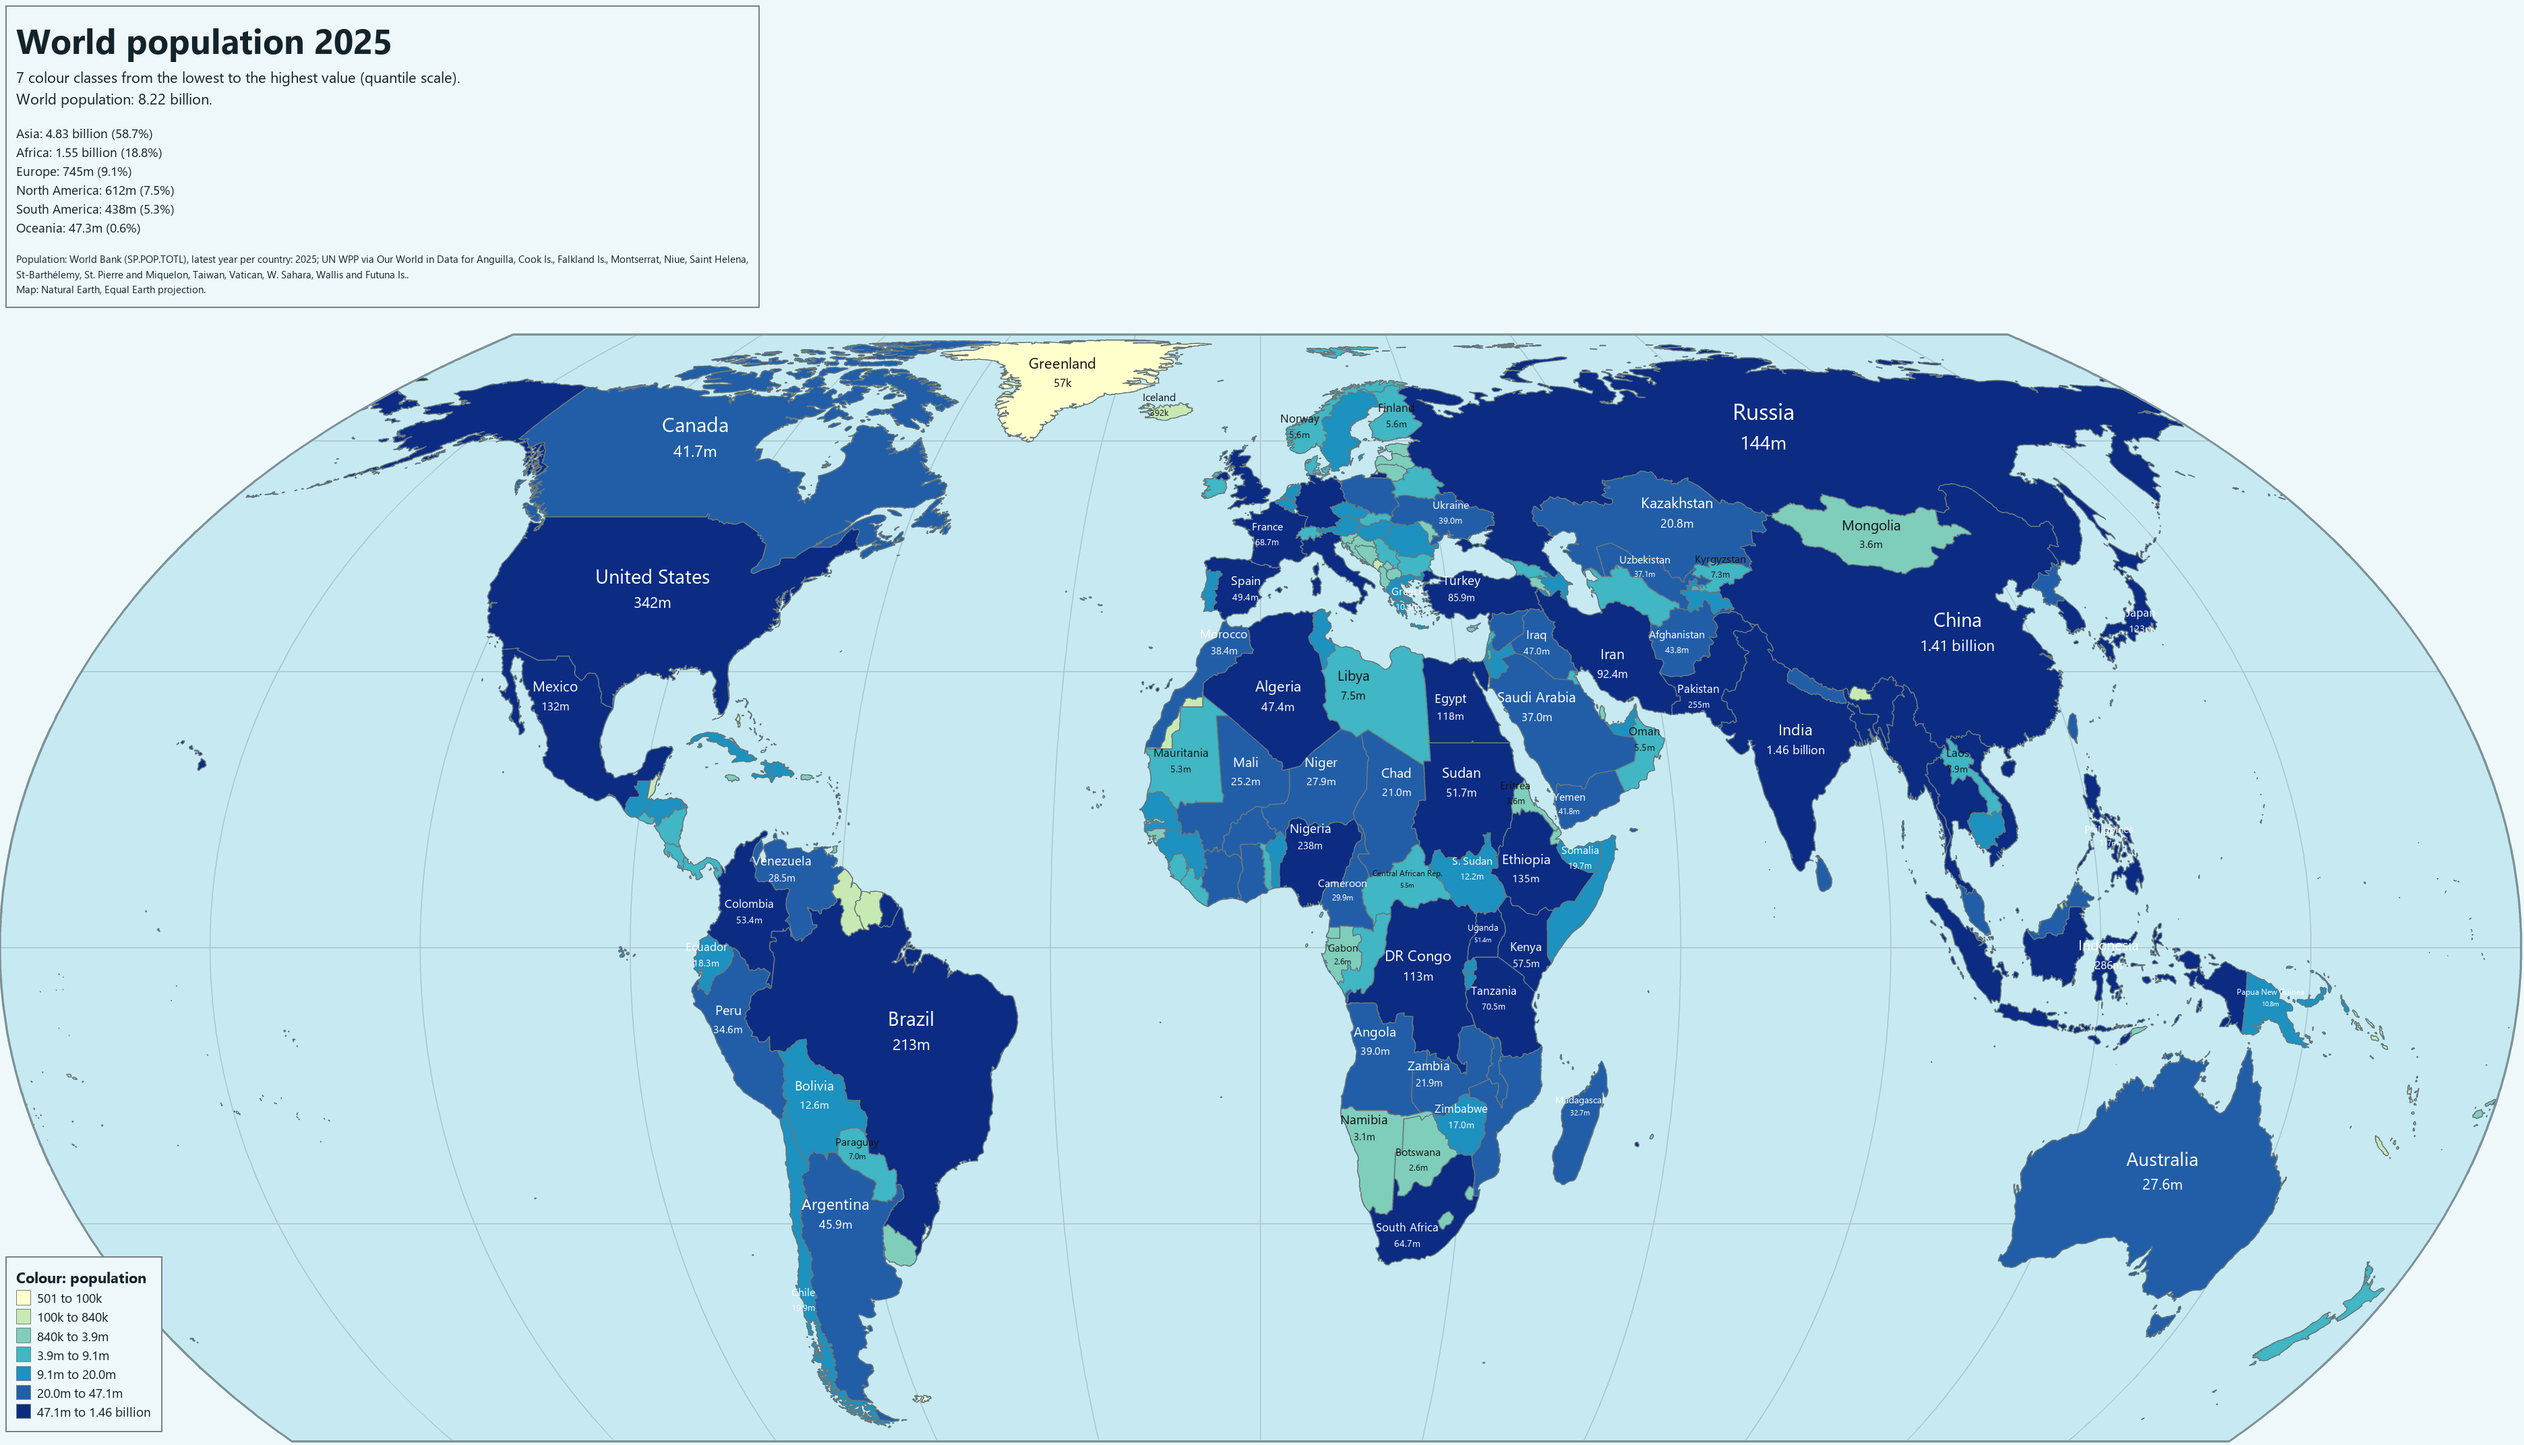
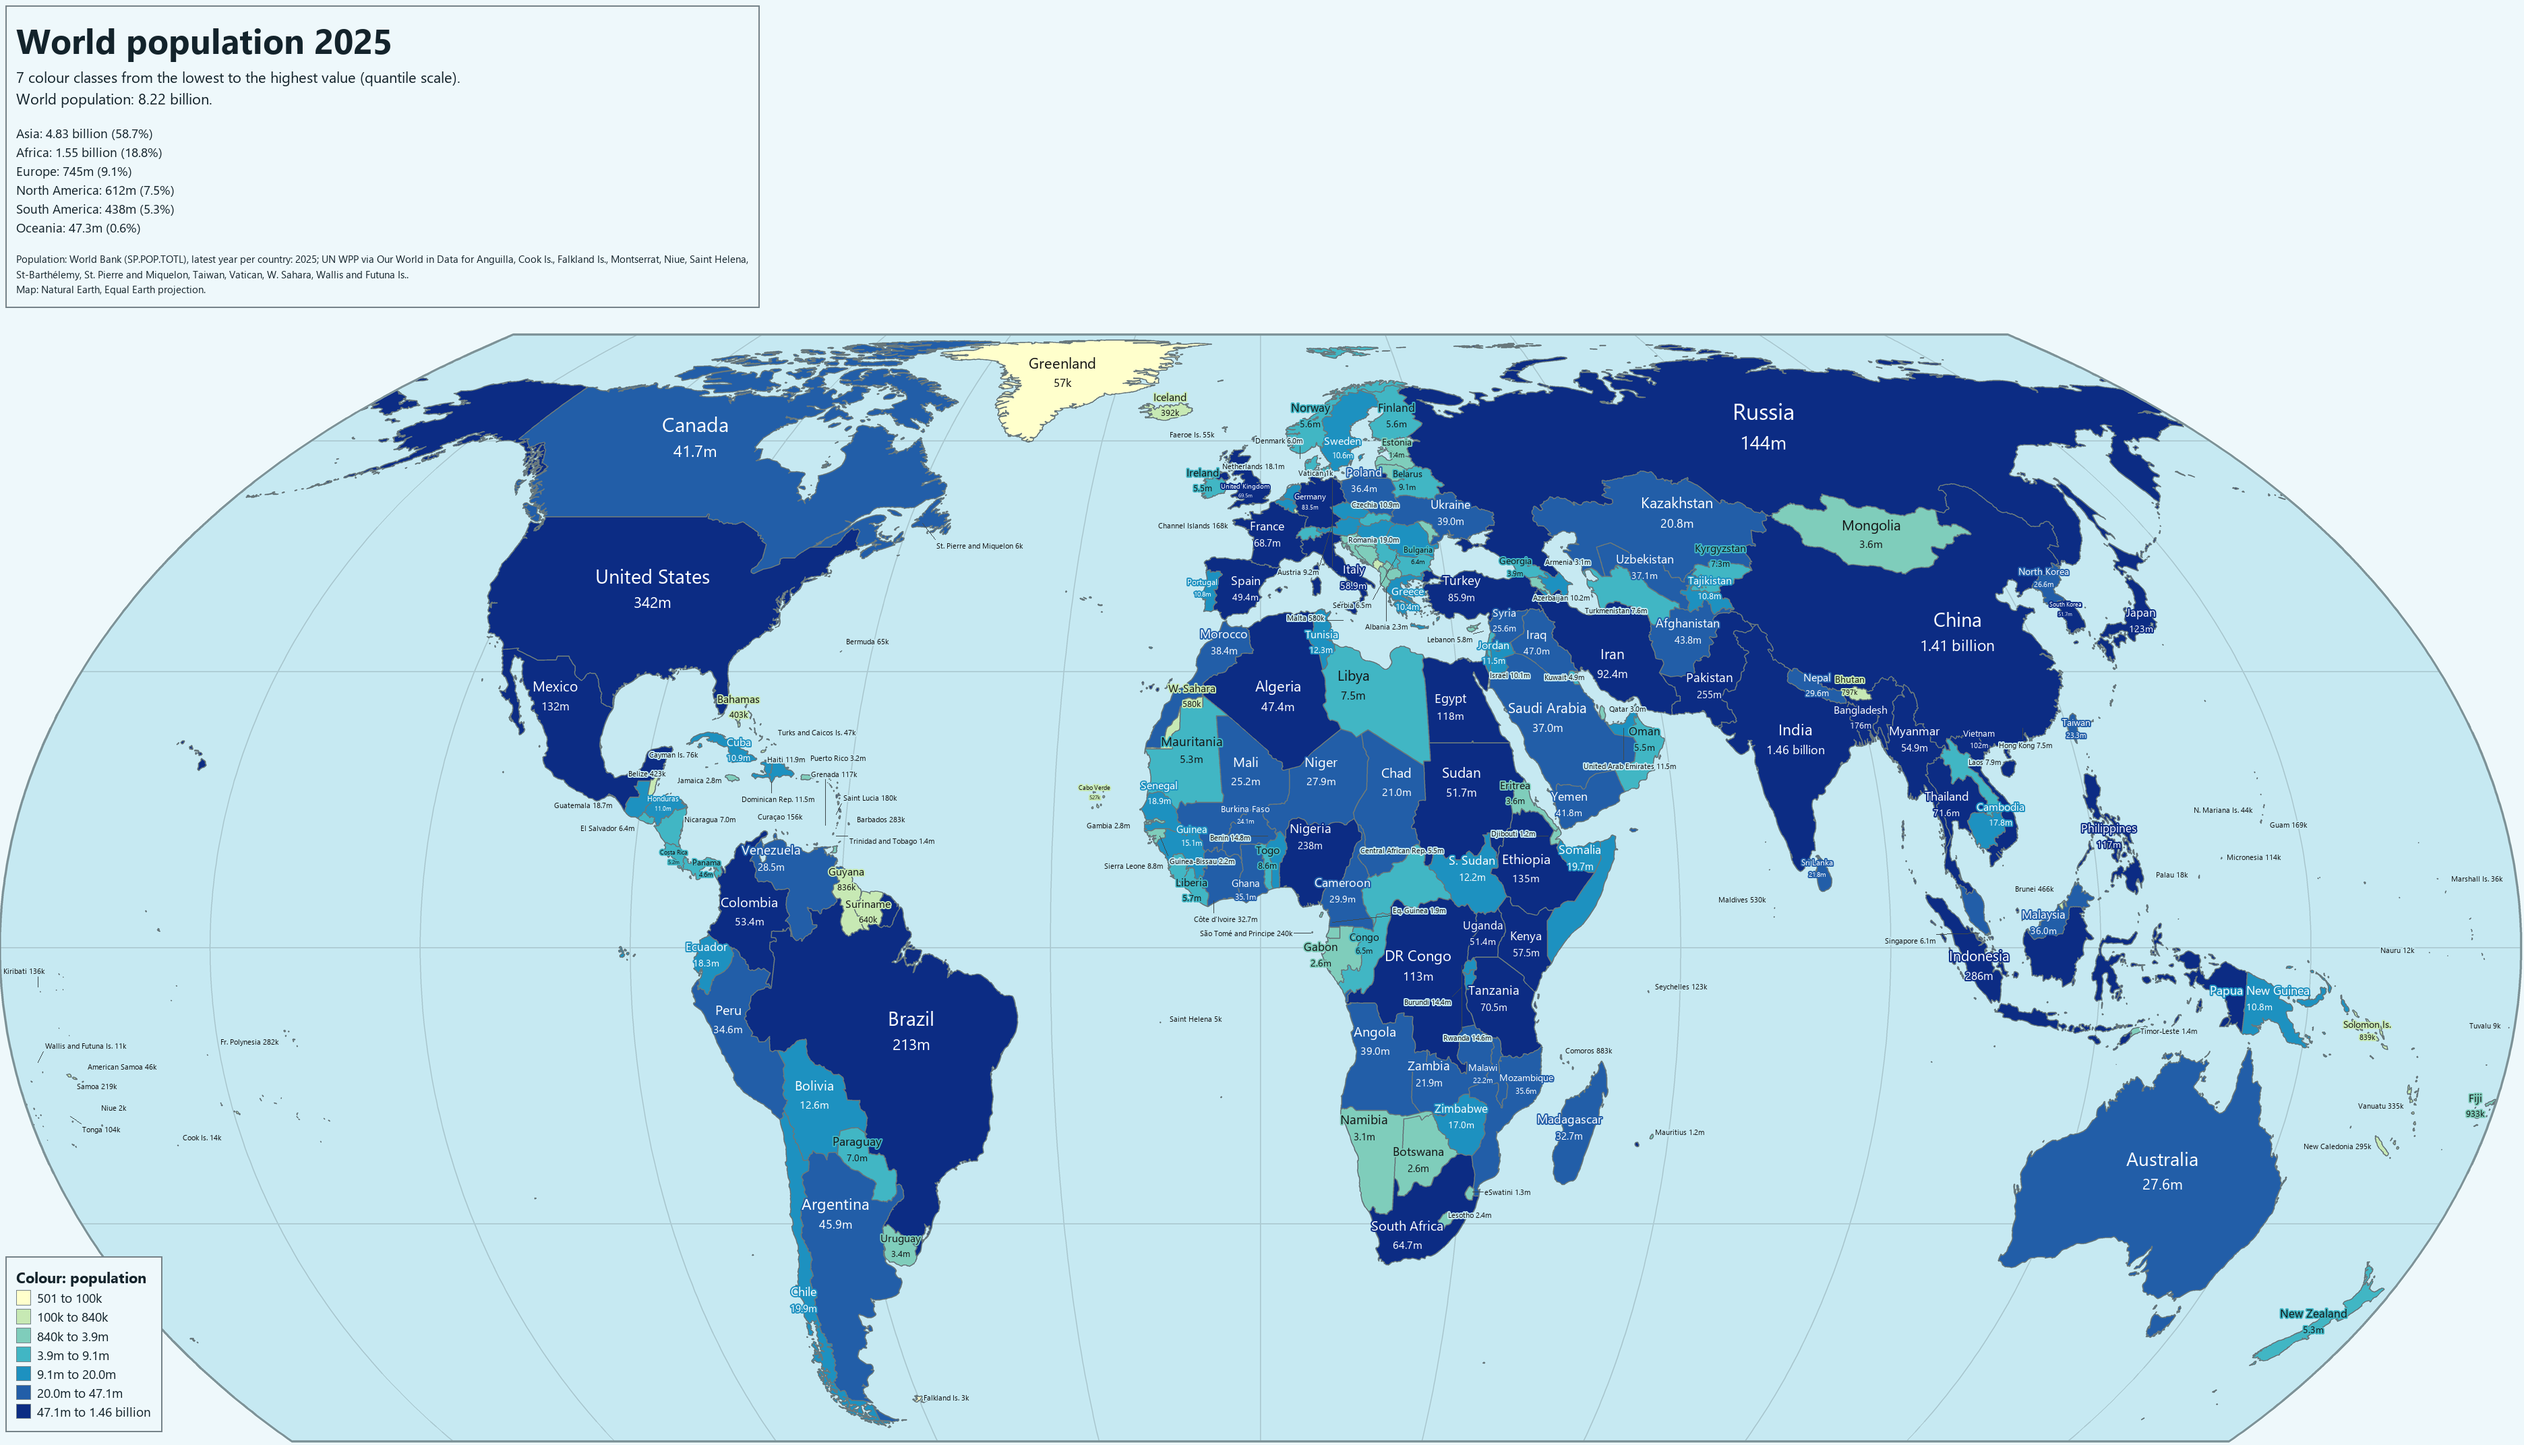
Map style: label far more countries
Labels inside a country may shrink to 8 px and cross its border with a halo of
its own colour; the rest go beside the country with a leader line, never over
another label nor with the line through one, and avoiding other leader lines.
Countries left without room are listed in the log. Other styles are unchanged.

diff --git a/population_cartogram.py b/population_cartogram.py
@@ -2422,7 +2422,7 @@ def render(layout, th, lang, cs, out_path, thematic=None, region=None):
         rank = np.lexsort(((ys - cy) ** 2 + (xs - cx) ** 2, -dv))[:80]
         fs = cs * min(0.9 + 0.09 * math.sqrt(T[i]), 6.5)
         placed = False
-        while fs >= max(cs * 0.75, 7):
+        while fs >= (max(cs * 0.55, 8) if geo else max(cs * 0.75, 7)):
             lines = [(name, fs, False), (value, fs * 0.8, False)]
             if not thematic and pops[i] / world >= 0.02 and fs >= cs * 2.2:
                 lines.append((tx["share"].format(p=fmt_num(100 * pops[i] / world, 1, tx)), fs * 0.36, False))
@@ -2434,11 +2434,12 @@ def render(layout, th, lang, cs, out_path, thematic=None, region=None):
                     continue
                 r0, r1, c0, c1 = canvas.cells(*box)
                 part = mine[r0:r1, c0:c1]
-                if part.mean() < 0.9 or canvas.occ[r0:r1, c0:c1].any():
+                if part.mean() < (0.6 if geo else 0.9) or canvas.occ[r0:r1, c0:c1].any():
                     continue
                 y = box[1]
-                for s, size, bold in lines:
-                    dr.text((px, y), s, size, bold, tcol, anchor="ma")
+                for s, size, bold in lines:     # on a map the text may cross a border: a halo of its own colour
+                    dr.text((px, y), s, size, bold, tcol, anchor="ma",
+                            **({"halo": colour_of[i], "halo_w": max(1, cs // 8)} if geo else {}))
                     y += text_size(font(size, bold), s)[1] * 1.08
                 canvas.occ[r0:r1, c0:c1] = True
                 placed = True
@@ -2446,25 +2447,41 @@ def render(layout, th, lang, cs, out_path, thematic=None, region=None):
             if placed:
                 break
             fs *= 0.88
-        if not placed and not geo:          # a geographic map labels only what fits
+        if not placed:
             external.append(i)
 
     # --- labels outside, with a leader line. They may sit over other countries
     # (with a halo) when that keeps them much closer than the nearest open sea.
-    efs = max(cs * 0.95, 8)
+    # A geographic map has no room to spare: the biggest countries first, and a
+    # label that would cover another is left out rather than overlap.
+    efs = max(cs * 0.7, 8) if geo else max(cs * 0.95, 8)
     f = font(efs)
     land = G > 0
     halo = th["ocean"] or th["bg"]
-    dirs = [(math.cos(a), math.sin(a)) for a in np.linspace(0, 2 * math.pi, 24, endpoint=False)]
+    dirs = [(math.cos(a), math.sin(a)) for a in np.linspace(0, 2 * math.pi, 36 if geo else 24, endpoint=False)]
     leaders, ext_texts = [], []
+    wired = np.zeros_like(canvas.occ)
+    unlabelled = []
     for i in external:
         s = f"{units[i - 1]['name']} {value_text(i)}"
         bw, bh = text_size(f, s)
         bw, bh = bw + 4, bh + 2
         ys, xs = np.nonzero(main_part(G == i))
         ay, ax = (ys.mean() + 0.5) * cs, (xs.mean() + 0.5) * cs
+
+        def leader_cells(box):
+            """The cells under the leader from the nearest part of the country to the label."""
+            bx, by = (box[0] + box[2]) / 2, (box[1] + box[3]) / 2
+            k = np.argmin(((ys + 0.5) * cs - by) ** 2 + ((xs + 0.5) * cs - bx) ** 2)
+            tyc, txc = (ys[k] + 0.5) * cs, (xs[k] + 0.5) * cs
+            ex, ey = min(max(txc, box[0]), box[2]), min(max(tyc, box[1]), box[3])
+            t = np.linspace(0, 1, 2 * int(math.hypot(ex - txc, ey - tyc) / cs) + 3)[1:-1]
+            cells = (np.clip((tyc + (ey - tyc) * t) // cs, 0, G.shape[0] - 1).astype(int),
+                     np.clip((txc + (ex - txc) * t) // cs, 0, G.shape[1] - 1).astype(int))
+            return cells, (ex, ey, txc, tyc)
+
         best = None
-        for r in range(1, 50):
+        for r in range(1, 20 if geo else 50):
             if best is not None and best[0] < r:
                 break
             for dx, dy in dirs:
@@ -2476,21 +2493,25 @@ def render(layout, th, lang, cs, out_path, thematic=None, region=None):
                     continue
                 r0, r1, c0, c1 = canvas.cells(*box)
                 score = 1000 * canvas.occ[r0:r1, c0:c1].sum() + 0.6 * land[r0:r1, c0:c1].sum() + r
+                if geo:                    # nor cross other labels and leader lines
+                    (ly, lx), _ = leader_cells(box)
+                    score += (1000 * (canvas.occ[ly, lx].sum() + wired[r0:r1, c0:c1].sum())
+                              + 60 * wired[ly, lx].sum())
                 if best is None or score < best[0]:
                     best = (score, box)
-        if best is None:
+        if best is None or (geo and best[0] >= 1000):
+            unlabelled.append(units[i - 1]["name"])
             continue
         box = best[1]
         r0, r1, c0, c1 = canvas.cells(*box)
         canvas.occ[r0:r1, c0:c1] = True
-        bx, by = (box[0] + box[2]) / 2, (box[1] + box[3]) / 2
-        k = np.argmin(((ys + 0.5) * cs - by) ** 2 + ((xs + 0.5) * cs - bx) ** 2)
-        tyc, txc = (ys[k] + 0.5) * cs, (xs[k] + 0.5) * cs
-        ex = min(max(txc, box[0]), box[2])
-        ey = min(max(tyc, box[1]), box[3])
+        cells, (ex, ey, txc, tyc) = leader_cells(box)
         if math.hypot(ex - txc, ey - tyc) > cs * 0.9:
             leaders.append((ex, ey, txc, tyc))
+            wired[cells] = True
         ext_texts.append(((box[0] + 2, box[1] + 1), s))
+    if unlabelled:
+        log(f"  no room for {len(unlabelled)} label(s): {', '.join(unlabelled)}")
     dr.lines(leaders, th["lead"], max(1, cs // 10))
     for xy, s in ext_texts:
         dr.text(xy, s, efs, False, th["label"], anchor="la", halo=halo, halo_w=max(1, cs // 7))

diff --git a/README.pt.md b/README.pt.md
@@ -249,8 +249,11 @@ cores dos vizinhos, para que vizinhos nunca tenham a mesma cor nem tons quase ig
 ## Limitações
 
 - Formas e posições são aproximadas: é um cartograma, não um mapa (exceto com `--style map`).
-- Em `--style map` os países muito pequenos (Singapura, Malta, ilhas do Pacífico) mal se veem e só
-  têm legenda os países onde ela cabe; a Antártida fica de fora.
+- Em `--style map` os países muito pequenos (Singapura, Malta, ilhas do Pacífico) mal se veem. Os
+  nomes que não cabem dentro do país ficam ao lado, com uma linha de chamada; no mapa-mundo, uns 35
+  países pequenos dos sítios mais apertados (Balcãs, Caraíbas, Grandes Lagos africanos) ficam sem
+  nome para as etiquetas não se sobreporem (o registo diz quais) — `--region` mostra-os todos. A
+  Antártida fica de fora.
 - Na disposição de 2018, as zonas que mais cresceram (África Ocidental, sul da Índia) ficam
   visivelmente mais salientes, e quanto mais longe de 2018 mais as formas se afastam do original:
   em 2050 a África fica muito mais redonda, e recuar até 2000 deixa alguns países recortados.

diff --git a/README.md b/README.md
@@ -249,8 +249,11 @@ difference) from its neighbours' colours, so neighbours never share a colour or 
 ## Limitations
 
 - Shapes and positions are approximate: this is a cartogram, not a map (except `--style map`).
-- On `--style map` very small countries (Singapore, Malta, Pacific islands) are barely visible
-  and only countries with room for their label are labelled; Antarctica is left out.
+- On `--style map` very small countries (Singapore, Malta, Pacific islands) are barely visible.
+  Names that do not fit inside a country go beside it with a leader line; on the world map about
+  35 small countries in the most crowded places (Balkans, Caribbean, African Great Lakes) stay
+  unnamed so that labels never overlap (the log lists them) — `--region` shows them all.
+  Antarctica is left out.
 - In the 2018 layout, the areas that grew most (West Africa, southern India) visibly bulge, and
   the further a year is from 2018 the more the shapes drift: by 2050 Africa is much rounder,
   and going back to 2000 leaves some countries ragged.
